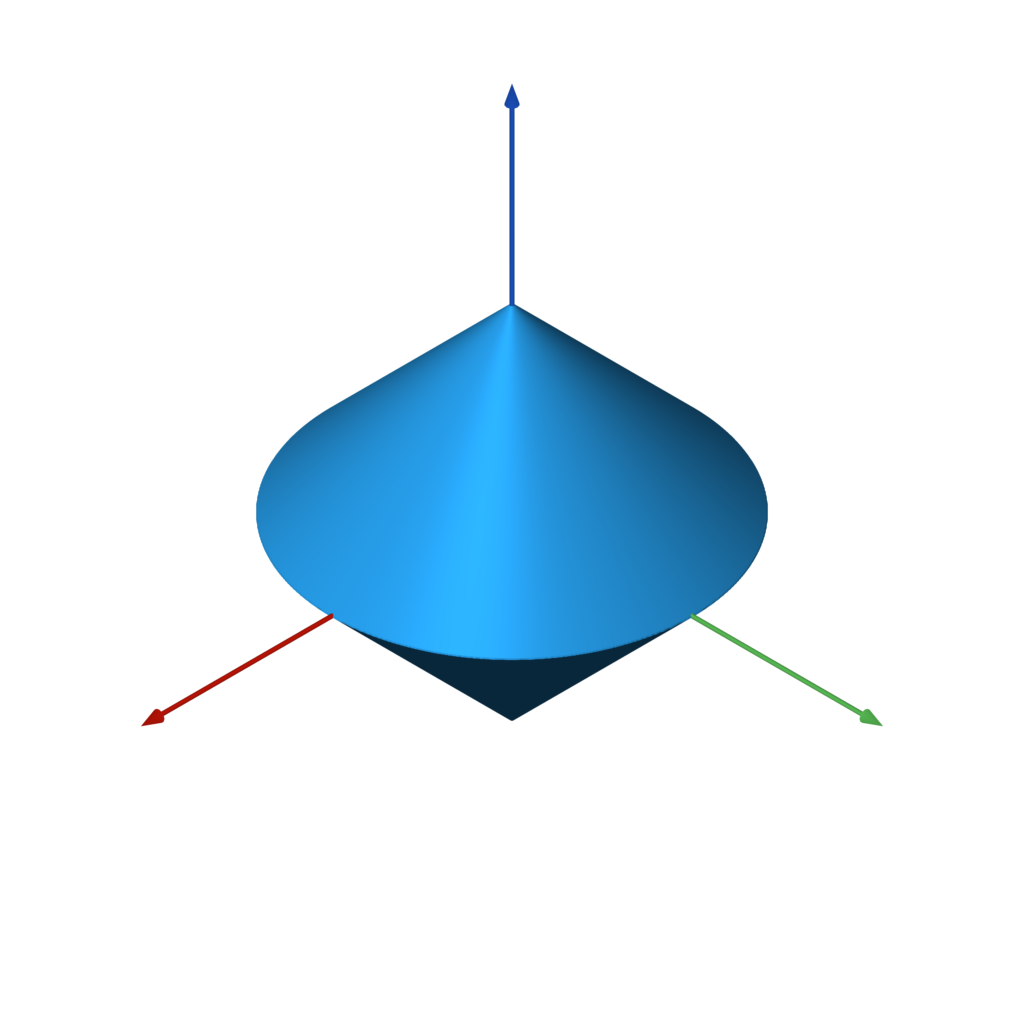
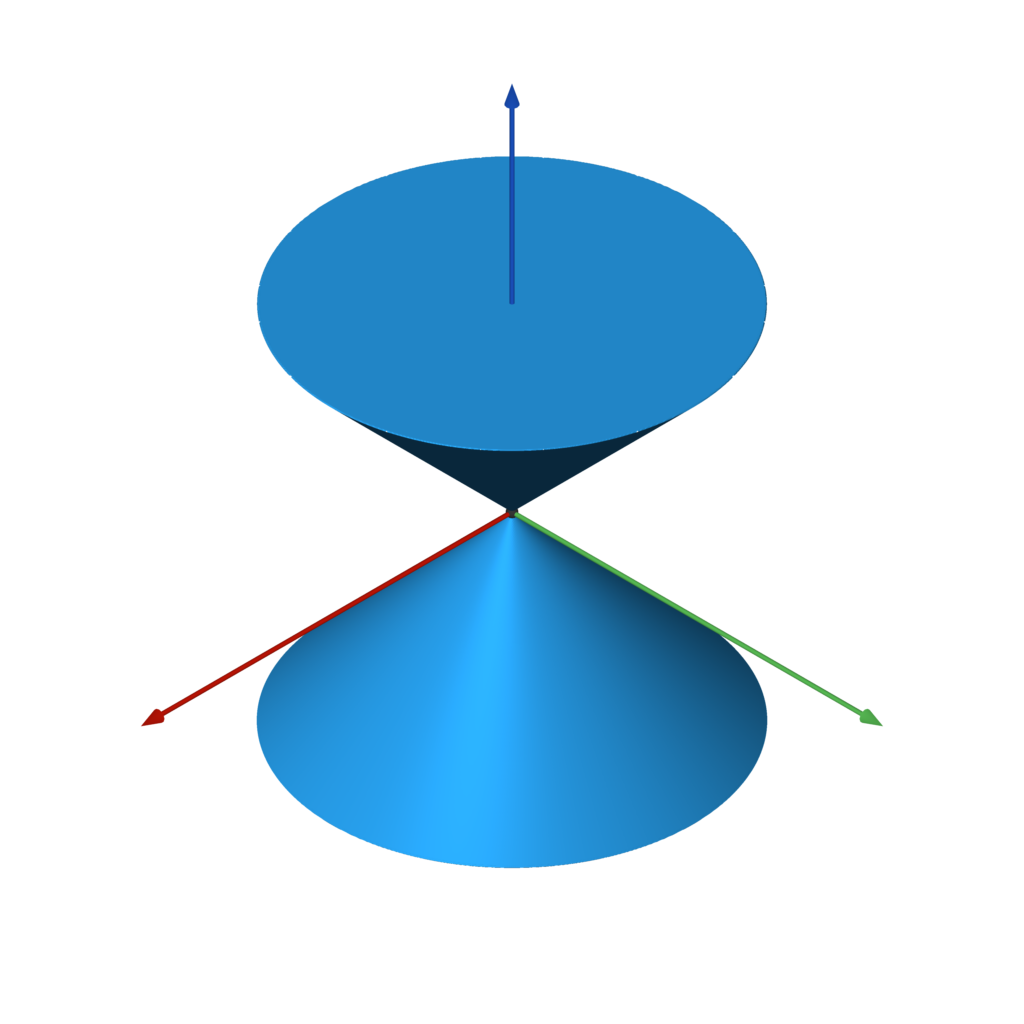
flip mirror

Changed region(s): [[0.25, 0.125, 0.75, 0.875]]

diff --git a/docs/render.py b/docs/render.py
@@ -327,9 +327,9 @@ f = rounded_polygon([
 generate(f, '2d_edge')
 
 # mirror
-f = circle(3).taper_extrude(3,1)
+f = circle(3).taper_extrude(3,1).translate((0,0,-3))
 # draw an upside down one below the axis
-f |= circle(3).taper_extrude(3,1).mirror([0,0,1])
+f |= circle(3).taper_extrude(3,1).translate((0,0,-3)).mirror([0,0,1])
 generate(f, 'mirror')
 
 

diff --git a/README.md b/README.md
@@ -613,9 +613,9 @@ f = capped_cylinder(-Z, Z, 0.5).rotate(pi / 4, X)
 `mirror(other, vector, center=ORIGIN)`
 
 ```python
-f = circle(3).taper_extrude(3,1)
+f = circle(3).taper_extrude(3,1).translate((0,0,-3))
 # draw an upside down one below the axis
-f |= circle(3).taper_extrude(3,1).mirror([0,0,1])
+f |= circle(3).taper_extrude(3,1).translate((0,0,-3)).mirror([0,0,1])
 ```
 
 ### orient
